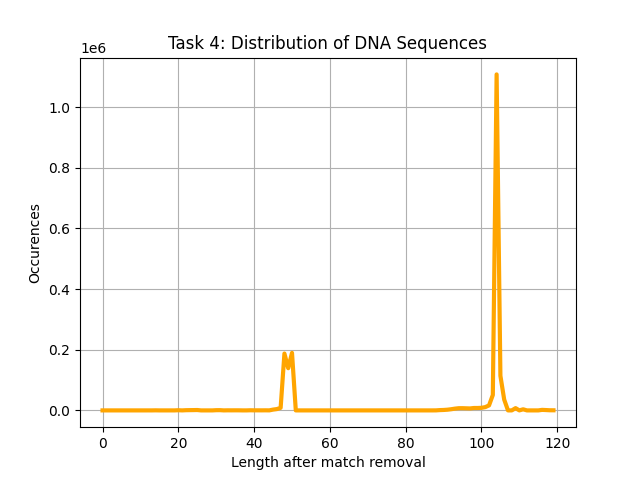
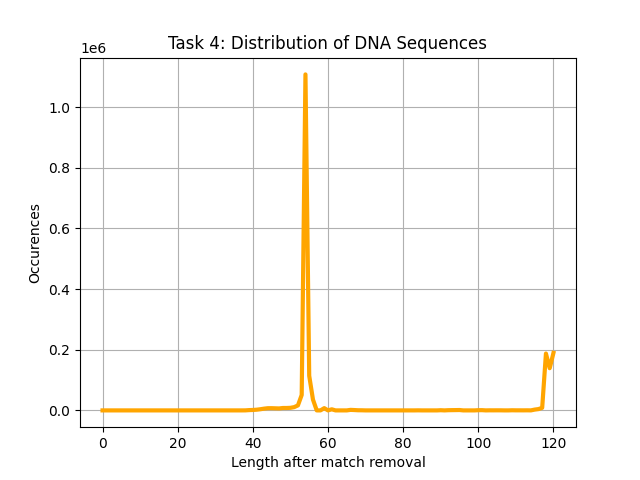
Highly frequent, timing and outputs

diff --git a/t4/task4.py b/t4/task4.py
@@ -4,7 +4,7 @@
 # Press Double Shift to search everywhere for classes, files, tool windows, actions, and settings.
 import numpy as np
 import matplotlib.pyplot as plt
-
+import time
 from task_1.suffixtree import SuffixTree
 
 A = 0
@@ -30,6 +30,8 @@ def read_file(filename):
             lines.append(line)
         counter+=1
         # change this to 10 000 for faster debugging. (small dataset)
+        # if counter == 100000:
+        #     break
 
     f.close()
     print("File closed")
@@ -121,15 +123,22 @@ def get_brute_force_results_array(array, length, lines, percentage_threshold):
     return result
 
 def task_four_distribution(lines, r_a_tree, longest):
-    result = [0] * longest # array of fixed size
+    result = [0] * (longest+1) # array of fixed size
     count = 0
+    map = {}
     for line in lines:
         line = line.strip('\n')
         r = r_a_tree.matchS(line)
 
         # store length of S after removal of match
         # all S have a length of 50.
-        s_remaining_length = 50-r
+        s_remaining_length = longest-r
+        s = line[:s_remaining_length]
+        if not map.__contains__(s):
+            map[s] = 1
+        else:
+            map[s] += 1
+
         result[s_remaining_length]+=1
             # print(str(r) + " for line "+ str(count))
 
@@ -150,8 +159,8 @@ def task_four_distribution(lines, r_a_tree, longest):
     fig.savefig("task4.png")
 
     plt.show()
-    print("Total number of perfectly matching fragments: " + str(len(lines)-result[50]))
-    return result
+    #print("Total number of perfectly matching fragments: " + str(len(lines)-result[longest]))
+    return map
 
 def brute_force_t4(lines, longest):
     # test case for troubleshooting:
@@ -209,18 +218,44 @@ def brute_force_t4(lines, longest):
 def remove_adapters_get_distribution():
     pass
 def print_hi(name):
+    read_file_start_time = time.time()
     lines, longest = read_file("../data/tdt4287-unknown-adapter.txt")
+    read_file_end_time = time.time()
+
+    calc_adapt_seq_start_time = time.time()
     adapt_seq = brute_force_t4(lines, longest)
-    print("Most likely adapt sequence")
-    print(adapt_seq)
+    calc_adapt_seq_end_time = time.time()
     # build tree
     radpt_tree = None
     a_reversed = adapt_seq[::-1] + "$"
+    match_fragments_start_time = time.time()
     tree = SuffixTree(a_reversed)
     tree.build_suffix_tree()
-    task_four_distribution(lines, tree, longest)
+    map = task_four_distribution(lines, tree, longest)
+    match_fragments_end_time = time.time()
+
+    get_frequent_seq_start_time = time.time()
+    higly_frequent_keys = dict(sorted(map.items(), key=lambda item: item[1], reverse=True))
+    counter = 0
+    for key in higly_frequent_keys.keys():
+        print(key + " is occuring " + str(higly_frequent_keys[key]) + " times.")
+        counter += 1
+        if counter == 9:
+            break
+    get_frequent_seq_end_time = time.time()
+    print("Adapter threshold: "+ str(adapter_threshold) + "%")
+    print("Adater suffix threshold: " + str(adapter_suffix_threshold)+"%")
+    print("\nMost likely adapt sequence: " + adapt_seq)
+    print("Unique sequences: " + str(len(map)))
+
+    print("\nTime used in seconds:")
+    print("Read file time:                " + str(read_file_end_time-read_file_start_time))
+    print("Calculate adapt sequence time: " + str(calc_adapt_seq_end_time-calc_adapt_seq_start_time))
+    print("Match fragments time:          " + str(match_fragments_end_time-match_fragments_start_time))
+    print("Get frequent keys time:        " + str(get_frequent_seq_end_time-get_frequent_seq_start_time))
+
+
 
 
 if __name__ == '__main__':
     print_hi('YO')
-
